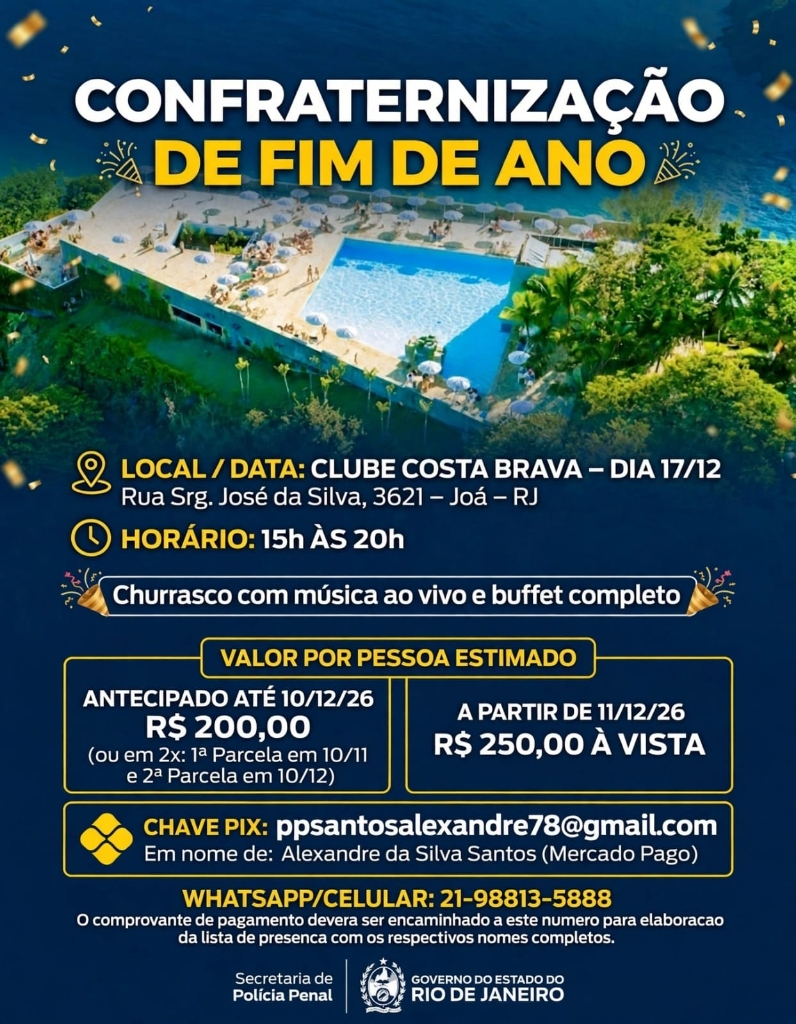
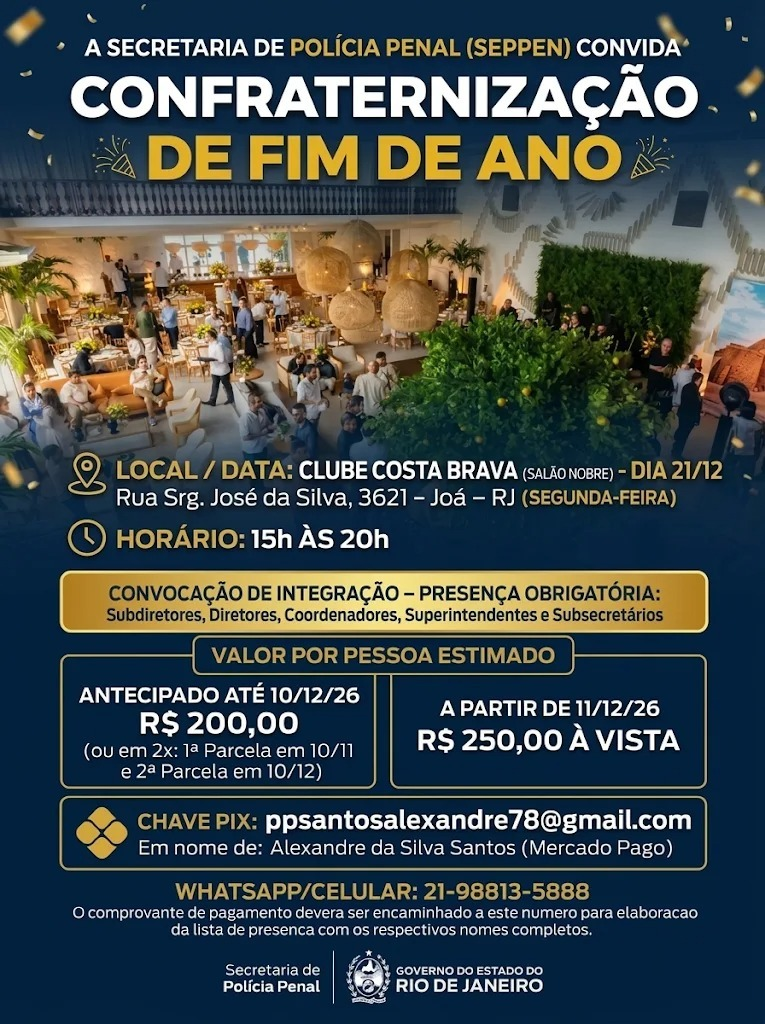
feat: Atualizacao do cartaz, nova data 21/12, Salao Nobre e convocacao de presenca obrigatoria

diff --git a/index.html b/index.html
@@ -85,20 +85,30 @@
         <div class="w-full md:w-7/12 space-y-4">
           <div class="inline-flex items-center space-x-2 px-3 py-1 rounded-full bg-amber-400/15 border border-amber-400/30 text-amber-300 text-xs font-semibold">
             <i class="fa-solid fa-champagne-glasses"></i>
-            <span>Evento Oficial de Confraternização 2026</span>
+            <span>A Secretaria de Polícia Penal (SEPPEN) Convida</span>
           </div>
 
           <h2 class="text-2xl sm:text-3xl font-extrabold tracking-tight text-white leading-tight">
             Confraternização de Fim de Ano <span class="text-amber-400">SEPPEN</span>
           </h2>
           <p class="text-sm text-slate-300">
-            Churrasco com música ao vivo e buffet completo em um dos locais mais exclusivos do Rio com vista panorâmica.
+            Churrasco com música ao vivo e buffet completo no Salão Nobre com vista panorâmica.
           </p>
 
-          <div class="grid grid-cols-2 gap-3 pt-2">
+          <!-- BANNER CONVOCAÇÃO DE INTEGRAÇÃO -->
+          <div class="bg-gradient-to-r from-amber-500/20 via-amber-400/25 to-amber-500/20 border-2 border-amber-400/60 rounded-xl p-3.5 text-center shadow-lg">
+            <span class="text-[11px] sm:text-xs uppercase tracking-wider font-extrabold text-amber-300 block mb-1">
+              <i class="fa-solid fa-bullhorn mr-1"></i> Convocação de Integração – Presença Obrigatória:
+            </span>
+            <p class="text-xs sm:text-sm font-bold text-white leading-snug">
+              Subdiretores, Diretores, Coordenadores, Superintendentes e Subsecretários
+            </p>
+          </div>
+
+          <div class="grid grid-cols-2 gap-3 pt-1">
             <div class="bg-slate-900/60 p-3 rounded-xl border border-slate-700/60">
               <span class="text-slate-400 text-xs block mb-1"><i class="fa-regular fa-calendar-days text-amber-400 mr-1"></i> Data</span>
-              <span class="font-bold text-sm text-white">17 de Dezembro</span>
+              <span class="font-bold text-sm text-white">21/12 (Segunda-feira)</span>
             </div>
             <div class="bg-slate-900/60 p-3 rounded-xl border border-slate-700/60">
               <span class="text-slate-400 text-xs block mb-1"><i class="fa-regular fa-clock text-amber-400 mr-1"></i> Horário</span>
@@ -109,7 +119,7 @@
           <div class="bg-slate-900/60 p-3.5 rounded-xl border border-slate-700/60 flex items-start space-x-3">
             <i class="fa-solid fa-map-pin text-amber-400 mt-1"></i>
             <div class="text-xs">
-              <span class="font-bold text-slate-200 block text-sm">Clube Costa Brava</span>
+              <span class="font-bold text-slate-200 block text-sm">Clube Costa Brava (Salão Nobre)</span>
               <p class="text-slate-400">Rua Srg. José da Silva, 3621 – Joá – RJ (Condomínio SAJO)</p>
             </div>
           </div>

diff --git a/public/index.html b/public/index.html
@@ -85,20 +85,30 @@
         <div class="w-full md:w-7/12 space-y-4">
           <div class="inline-flex items-center space-x-2 px-3 py-1 rounded-full bg-amber-400/15 border border-amber-400/30 text-amber-300 text-xs font-semibold">
             <i class="fa-solid fa-champagne-glasses"></i>
-            <span>Evento Oficial de Confraternização 2026</span>
+            <span>A Secretaria de Polícia Penal (SEPPEN) Convida</span>
           </div>
 
           <h2 class="text-2xl sm:text-3xl font-extrabold tracking-tight text-white leading-tight">
             Confraternização de Fim de Ano <span class="text-amber-400">SEPPEN</span>
           </h2>
           <p class="text-sm text-slate-300">
-            Churrasco com música ao vivo e buffet completo em um dos locais mais exclusivos do Rio com vista panorâmica.
+            Churrasco com música ao vivo e buffet completo no Salão Nobre com vista panorâmica.
           </p>
 
-          <div class="grid grid-cols-2 gap-3 pt-2">
+          <!-- BANNER CONVOCAÇÃO DE INTEGRAÇÃO -->
+          <div class="bg-gradient-to-r from-amber-500/20 via-amber-400/25 to-amber-500/20 border-2 border-amber-400/60 rounded-xl p-3.5 text-center shadow-lg">
+            <span class="text-[11px] sm:text-xs uppercase tracking-wider font-extrabold text-amber-300 block mb-1">
+              <i class="fa-solid fa-bullhorn mr-1"></i> Convocação de Integração – Presença Obrigatória:
+            </span>
+            <p class="text-xs sm:text-sm font-bold text-white leading-snug">
+              Subdiretores, Diretores, Coordenadores, Superintendentes e Subsecretários
+            </p>
+          </div>
+
+          <div class="grid grid-cols-2 gap-3 pt-1">
             <div class="bg-slate-900/60 p-3 rounded-xl border border-slate-700/60">
               <span class="text-slate-400 text-xs block mb-1"><i class="fa-regular fa-calendar-days text-amber-400 mr-1"></i> Data</span>
-              <span class="font-bold text-sm text-white">17 de Dezembro</span>
+              <span class="font-bold text-sm text-white">21/12 (Segunda-feira)</span>
             </div>
             <div class="bg-slate-900/60 p-3 rounded-xl border border-slate-700/60">
               <span class="text-slate-400 text-xs block mb-1"><i class="fa-regular fa-clock text-amber-400 mr-1"></i> Horário</span>
@@ -109,7 +119,7 @@
           <div class="bg-slate-900/60 p-3.5 rounded-xl border border-slate-700/60 flex items-start space-x-3">
             <i class="fa-solid fa-map-pin text-amber-400 mt-1"></i>
             <div class="text-xs">
-              <span class="font-bold text-slate-200 block text-sm">Clube Costa Brava</span>
+              <span class="font-bold text-slate-200 block text-sm">Clube Costa Brava (Salão Nobre)</span>
               <p class="text-slate-400">Rua Srg. José da Silva, 3621 – Joá – RJ (Condomínio SAJO)</p>
             </div>
           </div>

diff --git a/README.md b/README.md
@@ -11,6 +11,7 @@ Aplicação web autônoma para inscrições e pagamento via PIX para o evento de
 - **Planilha de Controle:** Registro detalhado com status de pagamento, quitação e controle de portaria/check-in.
 
 ## 🗺 Local do Evento
-- **Local:** Clube Costa Brava
+- **Local:** Clube Costa Brava (Salão Nobre)
 - **Endereço:** Rua Sargento José da Silva, 3621 – Joá – Rio de Janeiro / RJ (Condomínio SAJO)
-- **Data e Horário:** 17 de Dezembro, das 15h às 20h
+- **Data e Horário:** 21 de Dezembro (Segunda-feira), das 15h às 20h
+- **Convocação de Integração (Presença Obrigatória):** Subdiretores, Diretores, Coordenadores, Superintendentes e Subsecretários
